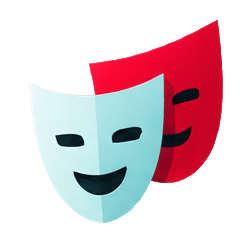
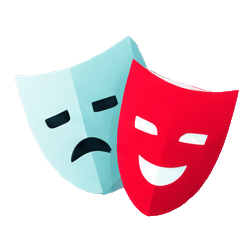
feat: agrega portadas personalizadas de generos

diff --git a/src/pages/GenresPage.tsx b/src/pages/GenresPage.tsx
@@ -46,7 +46,52 @@ const getGenreIcon = (name: string) => {
 const genreIconImages: Record<string, string> = {
   accion: '/genre-icons/accion.png',
   action: '/genre-icons/accion.png',
+  comedia: '/genre-icons/comedia.png',
+  comedy: '/genre-icons/comedia.png',
   drama: '/genre-icons/drama.png',
+  documental: '/genre-icons/documental.png',
+  documentary: '/genre-icons/documental.png',
+  belica: '/genre-icons/belica.png',
+  guerra: '/genre-icons/belica.png',
+  war: '/genre-icons/belica.png',
+  crimen: '/genre-icons/crimen.png',
+  crime: '/genre-icons/crimen.png',
+  animacion: '/genre-icons/animacion.png',
+  animation: '/genre-icons/animacion.png',
+  romance: '/genre-icons/romance.png',
+  familia: '/genre-icons/familia.png',
+  family: '/genre-icons/familia.png',
+  fantasia: '/genre-icons/fantasia.png',
+  fantasy: '/genre-icons/fantasia.png',
+  historia: '/genre-icons/historia.png',
+  history: '/genre-icons/historia.png',
+  musical: '/genre-icons/musical.png',
+  musica: '/genre-icons/musical.png',
+  music: '/genre-icons/musical.png',
+  misterio: '/genre-icons/misterio.png',
+  mystery: '/genre-icons/misterio.png',
+  'ciencia ficcion': '/genre-icons/ciencia-ficcion.png',
+  'science fiction': '/genre-icons/ciencia-ficcion.png',
+  'sci-fi': '/genre-icons/ciencia-ficcion.png',
+  western: '/genre-icons/western.png',
+  oeste: '/genre-icons/western.png',
+  aventura: '/genre-icons/aventuras.png',
+  aventuras: '/genre-icons/aventuras.png',
+  adventure: '/genre-icons/aventuras.png',
+  adventures: '/genre-icons/aventuras.png',
+  superheroe: '/genre-icons/superheroes.png',
+  superheroes: '/genre-icons/superheroes.png',
+  superhero: '/genre-icons/superheroes.png',
+  deporte: '/genre-icons/deportes.png',
+  deportes: '/genre-icons/deportes.png',
+  sport: '/genre-icons/deportes.png',
+  sports: '/genre-icons/deportes.png',
+  terror: '/genre-icons/terror.png',
+  horror: '/genre-icons/terror.png',
+  anime: '/genre-icons/anime.png',
+  suspenso: '/genre-icons/suspenso.png',
+  suspense: '/genre-icons/suspenso.png',
+  thriller: '/genre-icons/suspenso.png',
 };
 
 const getGenreIconImage = (name: string) => genreIconImages[normalizeGenreName(name)] || null;
